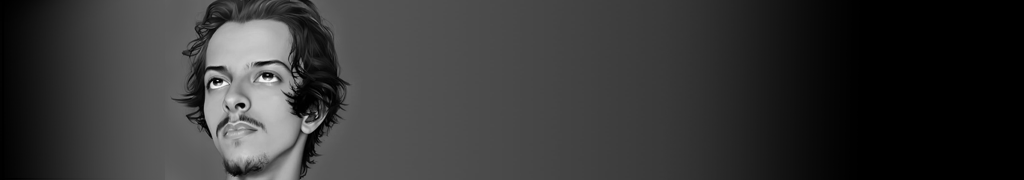
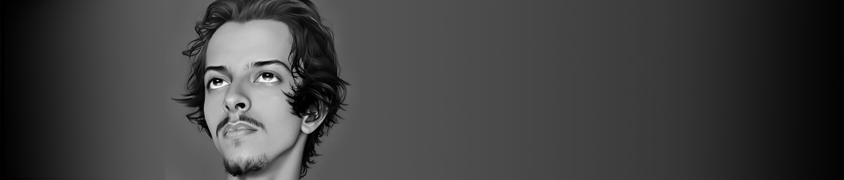
Responsiveness changes

diff --git a/index.html b/index.html
@@ -6,7 +6,6 @@
     <title>Ilias Bettahi</title>
     <link rel="shortcut icon" href="favicon.ico" type="image/x-icon">
     <link rel="stylesheet" type="text/css" href="style.css">
-    <link rel="stylesheet" media="screen and (max-width: 800px)" href="style-navbar-hide.css" />
     <script src="https://cdn.jsdelivr.net/npm/three@0.112.1/build/three.min.js"></script>
     <script src="https://platform.linkedin.com/badges/js/profile.js" async defer type="text/javascript"></script>
 
@@ -14,7 +13,13 @@
     
 </head>
 <div class="row">
-    <div class="topnav col-12">    
+    <img class="header-image" src="./Img/header3.png" alt="Logo" width="100%" height=auto>
+</div>
+
+
+
+<div class="row">
+    <div class="fixed topnav col-12">    
         <a id="home-button" href="#home">Home</a>
         <a id="about-me-button" href="#about">About me</a>
         <a id="projects-button" href="#projects">Projects</a>
@@ -24,63 +29,60 @@
 
 
 <body>
-    <div class="row">
-        <img src="./Img/header2.png" alt="Logo" width="100%" height=auto>
-    
 
-    <div class="row">
-
-        <div class="col-2"></div>
-
-        <div class="col-10">
-            <h1 id="home-target">
-                Transforming
-                <span class="colored-text">ideas</span>
-                into
-                <span class="colored-text">solutions</span>.
-            </h1>
-        </div>
-    </div>
-    
+    <h1 id="home-target">
+        Turn
+        <span class="colored-text">ideas</span><br>
+        in <span class="colored-text">solutions</span>.
+    </h1>
 
     <p class="subtitle" id ="subtitle"></p>
 
-    <div class="button-container">
-        <a href="./CV.pdf" download="CV.pdf">👉 Resume</a>
-        <a href="mailto:ilias.bettahi@gmail.com" target="_blank">📫 Contact</a>
+    <div class="row">
+        <div class="col-6">
+            <div class="button-container">
+                <a href="./CV.pdf" download="CV.pdf">👉 Resume</a>
+                <a href="mailto:ilias.bettahi@gmail.com" target="_blank">📫 Contact</a>
+            </div>
+        </div>
     </div>
 
+    
+
     <div class="section">
-        <h2 id="about-me-target" class="colored-text">Father Beaver, tell me a story !</h2>
+        <h2 id="about-me-target" class="colored-text">Tell me a story !</h2>
         <div class="section-content">
-            <p>Once upon a time, there was a young boy who lived in a small town with his parents. He loved spending his free time playing games on the computer that his parents had bought for him.</p>
-            <p>One day, while browsing through the games on his computer, the kid stumbled upon a chess game. He had never played chess before, but he was immediately drawn to the strategic nature of the game.</p>    
-            <p>The kid spent hours each day playing chess on his computer, studying different strategies and practicing against the computer's AI. Over time, he became very good at the game and even started to participate in online chess tournaments.</p>
-            
+            <p>
+                Once upon a time there was a young boy who was not very good at studies. 
+                He was always in the moon, dreaming and lost in thought. 
+                His parents and teachers were worried about him because he had a lot of difficulties in class and his academic results were poor.
+            </p>
             <p id="collapsible-element" class="collapsible" style="color:rgb(173, 173, 173)">Read more...</p>
             <div class="content">
-                <p>As the kid continued to play and learn more about chess, he also became increasingly interested in the technology behind his computer. He started to explore the different software and programs on his computer, and even taught himself how to code.</p>    
-                <p>Before long, the kid's passion for technology and computer science had grown to rival his love of chess. He spent hours each day tinkering with his computer and learning as much as he could about the field.</p>    
-                <p>The kid's parents were amazed at how quickly he had become so skilled and knowledgeable about computers. They encouraged him to continue pursuing his passion, and even helped him enroll in a program at the local community college to study computer science.</p>    
-                <p>The kid was thrilled to have the opportunity to continue learning and growing in the field that he loved. And even though he still enjoyed playing chess, he knew that his true passion was in the world of computers and technology.</p>
-                <p>I'm Ilias and this is a story about me.</p> 
+                One day, everything changed. The young boy had a click for mathematics.
+                At first, his goal was only to fill his gaps. With time, he discovered the facilities and the material stimulated him.
+                A spirit of competition was born in him.<br>
+                Later, he joined an engineering school. Wherever mathematical logic could help him reason, he applied it.
+                Especially in computer science where his curiosity had never finished stimulating him.<br>
+
+                <p>That boy is me. I have learned that, even when we feel at the bottom of the hole and our surroundings never cease to devalue us, work and self-confidence will always allow us to finally achieve ourselves.</p>
             </div>
         </div>    
     </div>
 
     </div class="section">
-        <h2 id="projects-target" class="colored-text">Some recent projects</h2>
+        <h2 id="projects-target" class="colored-text">Recent projects</h2>
         <div class="section-content">
-            <p>Let's turn ideas into reality!</p>
+            <p>Click to see more on github.</p>
         </div>
-        <div class="flex-container">
-            <div class="flex-item">
+        <div class="row">
+            <div class="col-4">
                 <div class="container">
                     <div class="button-container">
-                        <a href="https://github.com/iliasbet/ProjetScrabbbleFinal">👉 Scrabble</a>
+                        <a href="https://github.com/iliasbet/ProjetScrabbbleFinal">👉 Perfect Keyboard</a>
                         <ul>
-                            <li>Board Game</li>
-                            <li>C (Console)</li>
+                            <li>Machine Learning</li>
+                            <li>Genetic Algorithm</li>
                         </ul>
                     </div>
                 </div>
@@ -93,36 +95,32 @@
                         </ul>
                     </div>
                 </div>
-                
             </div>
-            <div class="flex-item">
+            <div class="col-4">
                 <canvas id="canvas"></canvas>
-                <img class="logo-overlay colored-text" src="./Img/github-logo.png" alt="Logo GitHub" width="150" height=auto>
+                <img class="overlay" src="./Img/github-logo.png" alt="Logo GitHub" width="150" height=aut style="margin-top: 150px">
             </div>
-            <div class="flex-item">
+            <div class="col-4">
                 <div class="container">
                     <div class="button-container">
-                        <a href="https://github.com/iliasbet/ProjetScrabbbleFinal">Cluedo 👈</a>
+                        <a href="https://github.com/iliasbet/ProjetScrabbbleFinal">👉 Air Traffic</a>
                         <ul>
-                            <li>Board Game</li>
-                            <li>C++ and SFML</li>
-                            <li>OOP</li>
-                        </ul>
-                    </div>
-                </div>
-                <div class="container">
-                    <div class="button-container">
-                        <a href="https://github.com/iliasbet/ProjetScrabbbleFinal">AirTraffic 👈</a>
-                        <ul>
-                            <li>Air traffic simulator</li>
-                            <li>C++ and SFML</li>
+                            <li>Traffic Simulator</li>
                             <li>Graph Theory</li>
                         </ul>
                     </div>
                 </div>
-                
+                <div class="container">
+                    <div class="button-container">
+                        <a href="https://github.com/iliasbet/ProjetScrabbbleFinal">👉 Personal Website</a>
+                        <ul>
+                            <li>HTML, CSS and Javascript</li>
+                            <li>Three.js</li>
+                        </ul>
+                    </div>
+                </div>
             </div>
-            
+
         </div>
     </div>
     

diff --git a/style.css b/style.css
@@ -5,16 +5,21 @@ body {
     max-width: 100%;
     margin-left: 10%;
     margin-right: 10%;
+    margin-top: 0px;
 }
 
-.topnav {
+.fixed {
     position: fixed;
     top: 0;
     left: 0;
+}
+
+.topnav {
     width: 100%;
-    height: 20px;
+    height: 50px;
     background-color: rgba(0, 0, 0, 0.6);
     backdrop-filter: blur(10px);
+    align-items: center;
 }
 
 .topnav a {
@@ -23,7 +28,9 @@ body {
     text-decoration: none;
     font-size: 17px;
     text-align: center;
-    width: 20%;
+    width: 25%;
+    padding-top: 15px;
+    padding-bottom: 15px;
 }
 
 .topnav a:hover{
@@ -33,43 +40,45 @@ body {
     transition: color 0.5s ease-in-out;
 }
 
+.center {
+    display: flex;
+    justify-content: center;
+}
+
 h1 {
     font-family: 'Times New Roman', Times, serif;
-    font-size: 70px;
+    font-size: 8vw;
     line-height: 0.9;
-    margin-top: 50px;
-    margin-bottom: 5px;
-    text-align: left;
-    position:relative;
-    z-index: -1;
+    text-align: right;
+    z-index: 1;
+    margin-left: 38vw;
+    margin-top: 10vw;
+    margin-bottom: 8vw;
+
+
 }
+
+.header-image {
+    position: absolute;
+    z-index: -1;
+    left: 0px;
+}
+
 .subtitle {
-    margin-top: 10px;
-    font-size: 25px;
+    font-size: 2.2vw;
     font-weight: lighter;
 }
 
-h1 img {
-    float: left;
-    margin-right: 20px;
-    margin-bottom: 50px;
-}
-h1 img:hover{
-    background-image: url('./header2.png');
-    transition: color 0.5s ease-in-out;
-}
 h2 {
-    font-size: 24px;
+    font-size: 4vw;
     margin-top: 20px;
 }
-.section {
-    margin-top: 40px;
-    font-size: 20px;
-}
+
 .section-title {
     font-family: 'Times New Roman', Times, serif;
     margin-bottom: 10px;
 }
+
 .section-content {
     margin-left: 20px;
     font-size: 20px;
@@ -121,8 +130,7 @@ h2 {
 }
 
 #canvas {
-    width: 400px;
-    margin: 0 auto;
+    width: 373px;
     position: relative;
 }
 
@@ -135,13 +143,13 @@ h2 {
 
 .container {
     background-color: #141414;
-    width: 200px;
+    width: 300px;
     height: 150px;
     margin-bottom: 50px;
     border-radius: 20px;
 }
 
-.logo-overlay{
+.overlay{
     position: absolute;
     margin-top: 150px;
     margin-left: -270px;
@@ -155,7 +163,6 @@ h2 {
   
   [class*="col-"] {
     float: left;
-    padding: 15px;
   }
   
   .col-1 {width: 8.33%;}
@@ -170,3 +177,48 @@ h2 {
   .col-10 {width: 83.33%;}
   .col-11 {width: 91.66%;}
   .col-12 {width: 100%;}
+
+  @media only screen and (max-width: 768px) {
+    /* For mobile phones: */
+    [class*="col-"] {
+      width: 100%;
+    }
+
+    body {
+        margin-left: 7%;
+        margin-right: 7%;
+    }
+
+    .topnav {
+        display: none;
+    }
+
+    h1 {
+        margin-top: 7vw;
+    }
+
+    h2 {
+        margin-top: 2px;
+        font-size: 5vw;
+    }
+
+    .subtitle {
+        display: none;
+    }
+
+    .section-content {
+        font-size: 3.5vw;
+    }
+
+    .container {
+        width: 100%;
+        align-items: center;
+    }
+
+    .button-container a {
+        font-size: 20px;
+        margin-bottom: 2vw;
+        margin-top: 2vw;
+    }
+
+  }

diff --git a/script.js b/script.js
@@ -1,8 +1,8 @@
 // The title that you want to animate
-var subtitle = "Hi! I am Ilias, a French engineering student passionate about artificial intelligence. I want to use my knowledge and skills to help advance this field and make the world a better place.";
+var subtitle = "Hi! I am Ilias, a French engineering student interested in artificial intelligence. I want to help advance this field and make the world a better place.";
 
 // The delay between each character being written
-var delay = 100; // 100ms
+var delay = 40; // 100ms
 
 // Get a reference to the title element
 var subtitleElement = document.getElementById("subtitle");
@@ -76,7 +76,7 @@ camera.position.z =15;
 
 
 var renderer = new THREE.WebGLRenderer({canvas: canvas});
-renderer.setSize(400, 400);
+renderer.setSize(335, 335);
 
 var points = [
     [1, 1, 1],
@@ -120,3 +120,9 @@ function animate() {
 window.addEventListener('scroll', onScroll);
 
 animate();
+
+window.onscroll = function() {
+  setTimeout(function() {
+    document.getElementById("home-target").style.display = "block";
+  }, 12000);
+}
